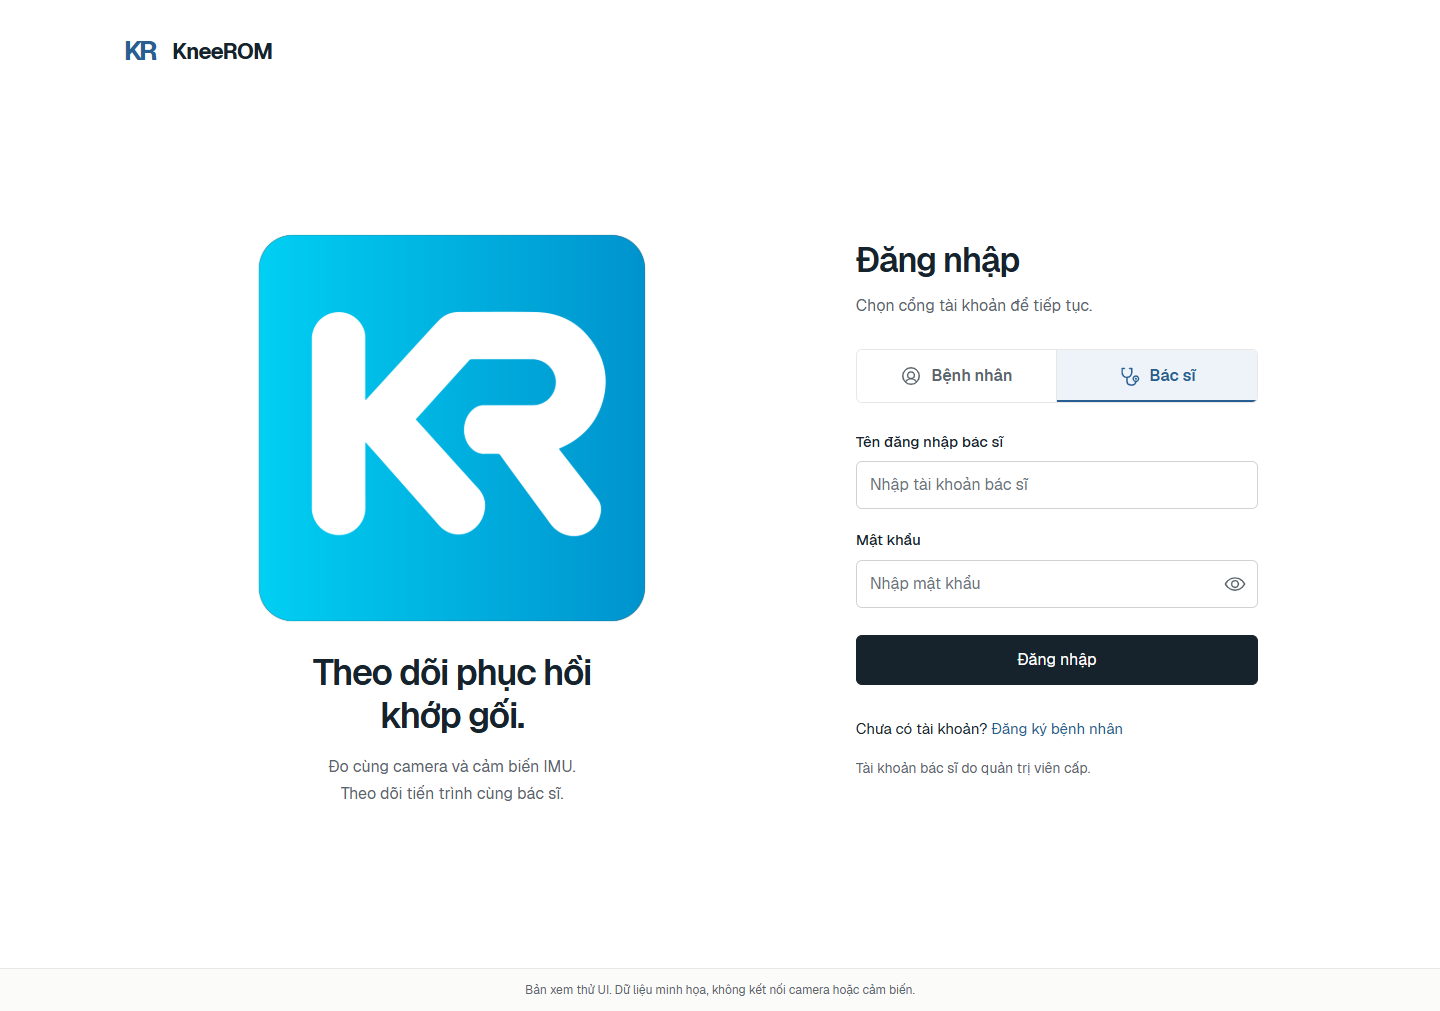
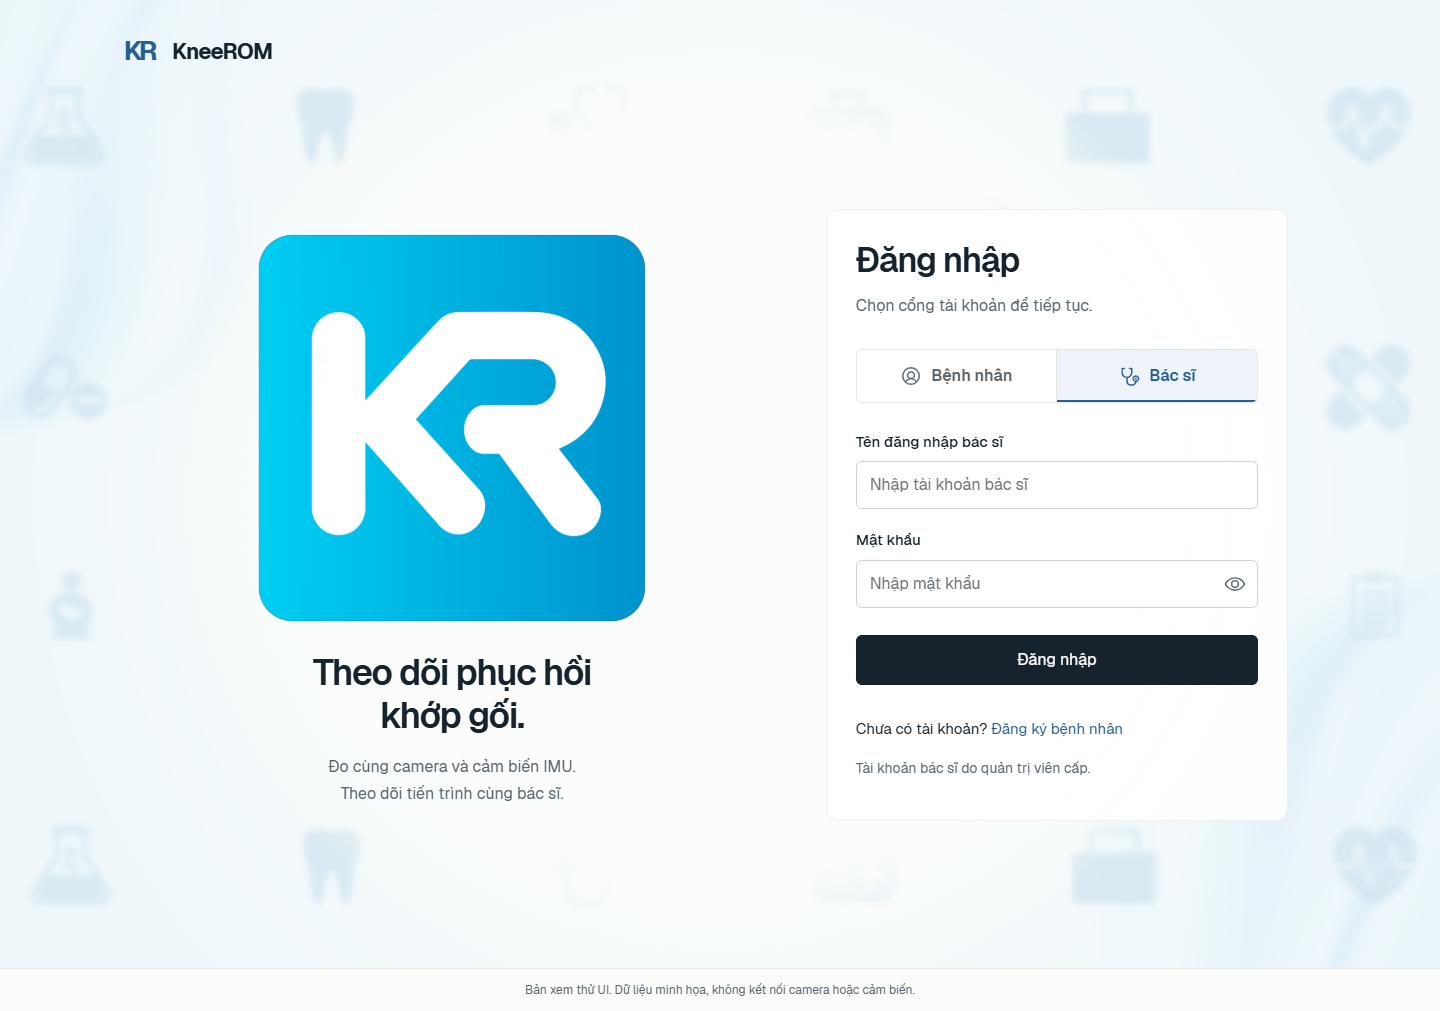
Add muted medical backgrounds and role crossfade to login preview

diff --git a/aclproject2-main/aclproject2-main/static/portal-ui.css b/aclproject2-main/aclproject2-main/static/portal-ui.css
@@ -2405,3 +2405,96 @@ body.patient-portal-page {
     padding-bottom: 36px;
   }
 }
+
+/* Decorative source artwork stays separate from legible interactive content. */
+.page-auth {
+  position: relative;
+  isolation: isolate;
+  background: #fbfdfc;
+}
+.auth-wallpaper {
+  position: fixed;
+  inset: -8px;
+  z-index: -1;
+  overflow: hidden;
+  pointer-events: none;
+}
+.auth-wallpaper img {
+  position: absolute;
+  inset: 0;
+  width: 100%;
+  height: 100%;
+  max-width: none;
+  object-fit: cover;
+  object-position: center;
+  filter: blur(2.5px) saturate(0.7);
+  transition: opacity 420ms ease;
+}
+.auth-wallpaper-patient {
+  opacity: 0.22;
+}
+.auth-wallpaper-doctor {
+  opacity: 0;
+}
+.page-auth[data-portal="doctor"] .auth-wallpaper-patient {
+  opacity: 0;
+}
+.page-auth[data-portal="doctor"] .auth-wallpaper-doctor {
+  opacity: 0.18;
+}
+.auth-intro-branded .auth-brand-art {
+  background: transparent;
+  mix-blend-mode: multiply;
+}
+.page-auth .auth-panel {
+  position: relative;
+  isolation: isolate;
+}
+.page-auth .auth-panel::before {
+  content: "";
+  position: absolute;
+  inset: -30px;
+  z-index: -1;
+  background: rgba(255, 255, 255, 0.92);
+  border: 1px solid rgba(234, 234, 234, 0.7);
+  border-radius: 12px;
+  pointer-events: none;
+}
+@media (max-width: 760px) {
+  .auth-wallpaper-patient {
+    opacity: 0.16;
+  }
+  .page-auth[data-portal="doctor"] .auth-wallpaper-doctor {
+    opacity: 0.14;
+  }
+  .page-auth .auth-panel::before {
+    inset: -16px;
+    border-radius: 8px;
+  }
+}
+@media (prefers-reduced-motion: reduce) {
+  .auth-wallpaper img {
+    transition: none;
+  }
+}
+@media (prefers-reduced-transparency: reduce) {
+  .auth-wallpaper {
+    display: none;
+  }
+  .page-auth .auth-panel::before {
+    background: #fff;
+  }
+}
+/* Keep the repeated medical icons, soften the poster's duplicate central mark. */
+.auth-wallpaper img {
+  -webkit-mask-image: radial-gradient(
+    ellipse 38% 50% at 50% 50%,
+    transparent 74%,
+    #000 100%
+  );
+  mask-image: radial-gradient(
+    ellipse 38% 50% at 50% 50%,
+    transparent 74%,
+    #000 100%
+  );
+}

diff --git a/aclproject2-main/aclproject2-main/home.html b/aclproject2-main/aclproject2-main/home.html
@@ -19,7 +19,7 @@
     />
     <link
       rel="stylesheet"
-      href="{{ url_for('static', filename='portal-ui.css', v='login-brand-preview-2') }}"
+      href="{{ url_for('static', filename='portal-ui.css', v='login-wallpaper-preview-3') }}"
     />
     <script src="{{ url_for('static', filename='rehab.js') }}" defer></script>
     <script
@@ -32,6 +32,10 @@
     data-initial-portal="{{ active_portal|default('patient') }}"
   >
     <a class="skip-link" href="#auth-main">Đến phần đăng nhập</a>
+    <div class="auth-wallpaper" aria-hidden="true">
+      <img class="auth-wallpaper-patient" src="{{ url_for('static', filename='brand/patient-background.png') }}" alt="" width="4536" height="4536" decoding="async" />
+      <img class="auth-wallpaper-doctor" src="{{ url_for('static', filename='brand/doctor-background.png') }}" alt="" width="4537" height="4536" decoding="async" />
+    </div>
     <header class="auth-header">{{ brand('/', '') }}</header>
     <main class="auth-layout" id="auth-main">
       <section class="auth-intro auth-intro-branded" aria-label="Giới thiệu KneeROM">

diff --git a/docs/ui-preview.md b/docs/ui-preview.md
@@ -15,6 +15,7 @@ Mở http://127.0.0.1:5003. Tài khoản minh họa: `patient_demo` hoặc `doct
 ## Những thay đổi để xem xét
 
 - Trang đăng nhập dùng logo gốc do chủ dự án cung cấp: xanh lá cho bệnh nhân, xanh lam cho bác sĩ. Logo lớn bên trái trên PC và thu nhỏ phía trên form trên điện thoại; hai cổng đăng nhập vẫn riêng biệt.
+- Background y tế gốc phủ toàn trang, được làm mờ và giảm độ đậm riêng với nội dung. Biểu tượng nền chuyển màu nhẹ theo tab; vùng giữa được làm dịu để tránh lặp logo. Form và logo phía trước vẫn rõ nét. Hiệu ứng tắt theo tùy chọn giảm chuyển động/giảm trong suốt của thiết bị.
 - Bệnh nhân dùng màu xanh ngọc, bác sĩ dùng xanh lam. Font Geist và biểu tượng Phosphor được phục vụ từ repo, kèm giấy phép trong `static/fonts` và `static/icons`.
 - Giao diện điều chỉnh cho điện thoại, laptop và PC. Trên điện thoại, điều hướng và nút đo được đặt trong tầm thao tác.
 - Camera và IMU đo cùng một lượt: Bắt đầu → Dừng để giữ kết quả → Lưu chung kèm ảnh. Các cài đặt kết nối và hiệu chuẩn nằm trong phần mở rộng.

diff --git a/aclproject2-main/aclproject2-main/static/brand/README.md b/aclproject2-main/aclproject2-main/static/brand/README.md
@@ -3,3 +3,5 @@
 patient-logo.png and doctor-logo.png are the original PNG files supplied by the project owner for this login preview. The marks have not been redrawn or recolored; CSS frames the existing white padding for responsive display.
 
 Source folder: https://drive.google.com/drive/folders/1u_goGpfkvJhi9kdhSiqiQoZozg86S2tI
+
+patient-background.png and doctor-background.png are also the original supplied PNGs from that folder. CSS applies blur, desaturation, opacity and a central mask to the decorative background layer only. No raster files have been edited. The login form remains sharp; switching role crossfades the two backgrounds, respecting reduced-motion and reduced-transparency preferences.
